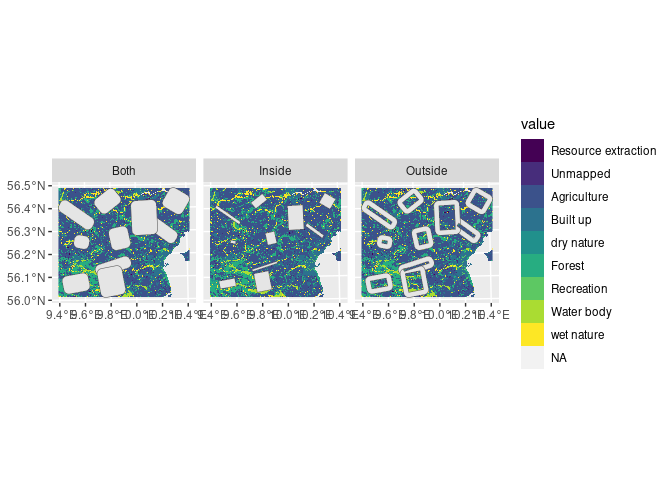
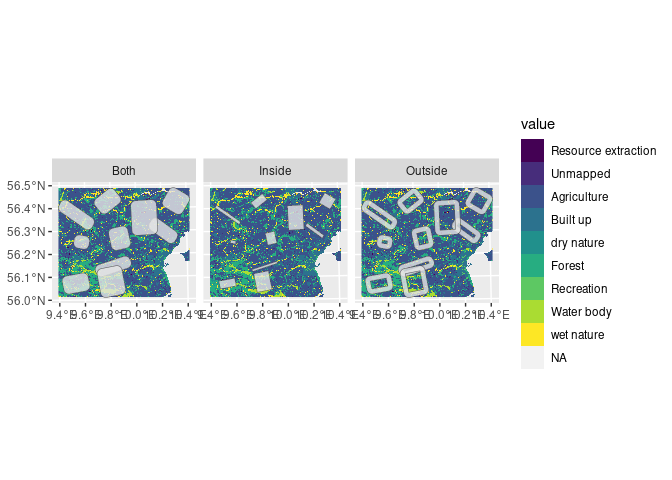
Fixed issue in summarise_polygons, intersect between buffers

diff --git a/README.md b/README.md
@@ -149,6 +149,8 @@ some simulated polygons inside, outside, and both
 
 </div>
 
+As it can be seen, now the polygons can overlap
+
 ### 2.2.1 Inside the polygons
 
 ``` r
